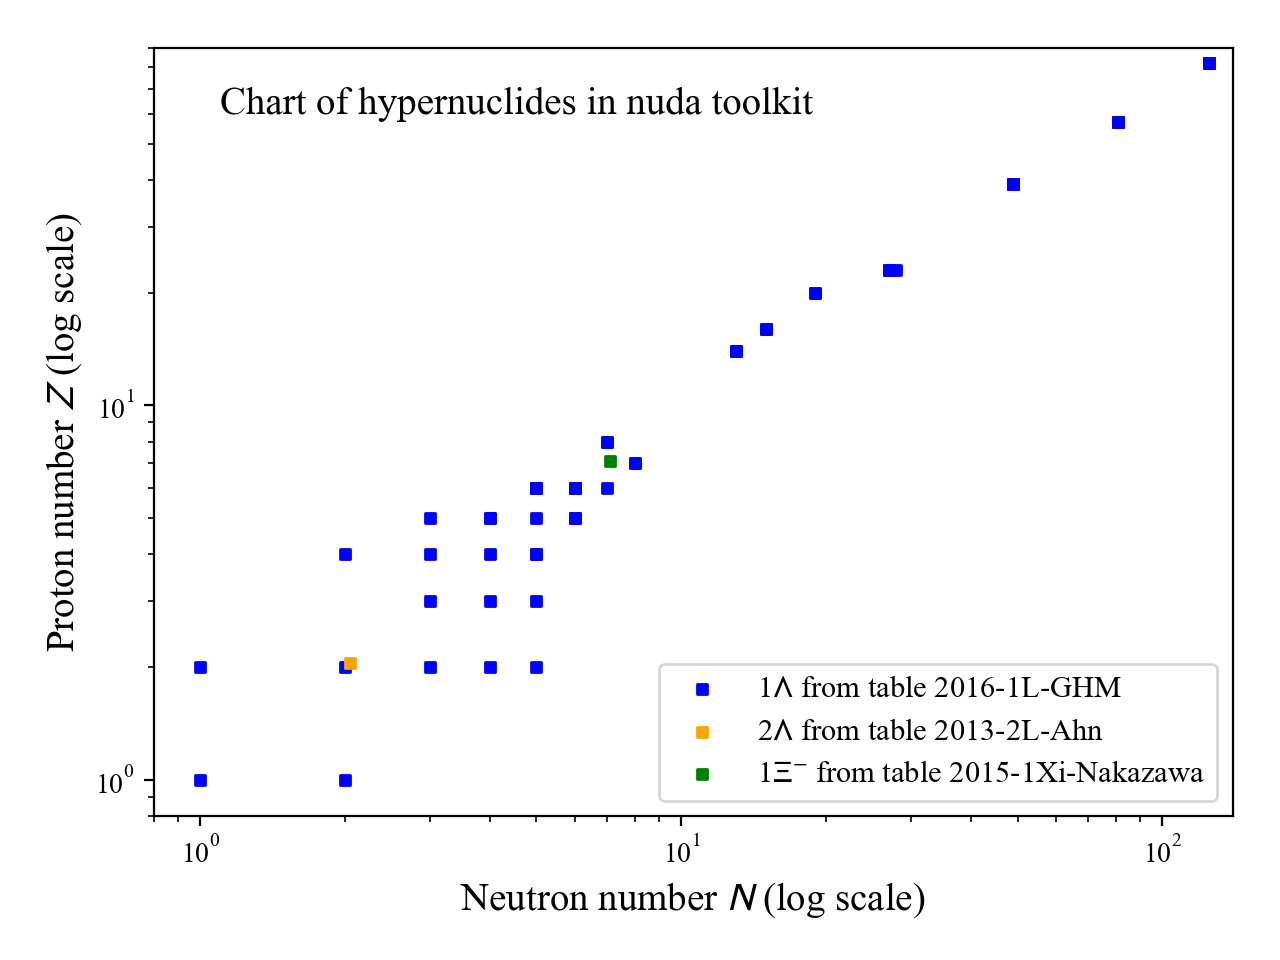
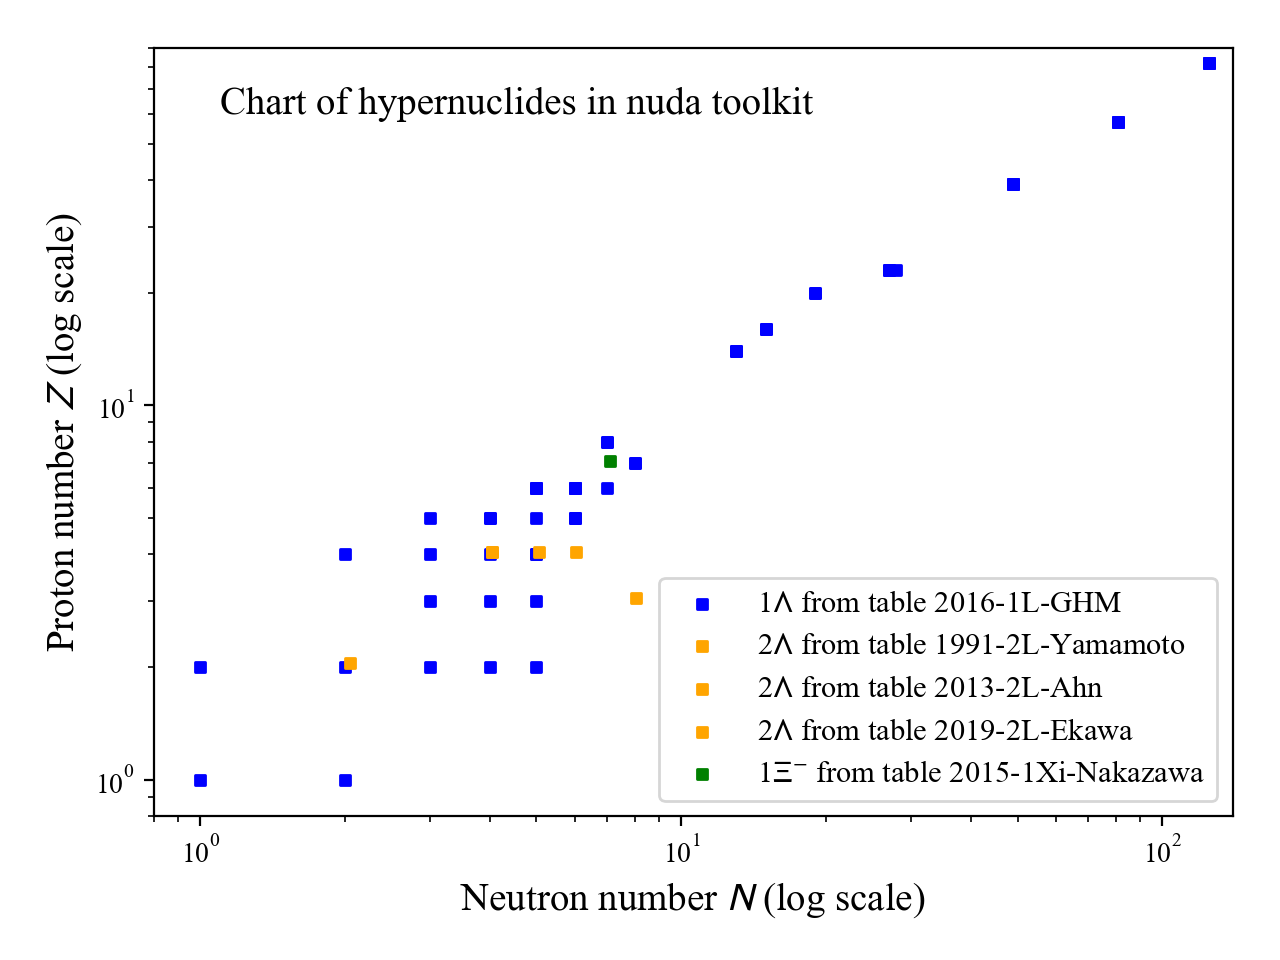
new tables for 2L hypernuclei

Changed region(s): [[0.5, 0.5938, 0.9375, 0.7812], [0.375, 0.5625, 0.4688, 0.5938], [0.75, 0.75, 0.7812, 0.7812]]

diff --git a/version-1.0/nucleardatapy/hnuc/setup_re2L_exp.py b/version-1.0/nucleardatapy/hnuc/setup_re2L_exp.py
@@ -16,7 +16,8 @@ def re2L_exp_tables():
     #
     if nuda.env.verb: print("\nEnter re2L_exp_tables()")
     #
-    tables = [ '2013-2L-Ahn' ]
+    #tables = [ '2013-2L-Ahn' ]
+    tables = [ '1991-2L-Yamamoto', '2013-2L-Ahn', '2019-2L-Ekawa' ]
     #
     #print('tables available in the toolkit:',tables)
     tables_lower = [ item.lower() for item in tables ]
@@ -78,13 +79,34 @@ class setupRE2LExp():
       color = []
       mark = []
       #
-      if table.lower() == '2013-2l-ahn':
+      if table.lower() == '1991-2l-yamamoto':
+         #
+         file_in = os.path.join(nuda.param.path_data,'hnuclei/1991-2L-Yamamoto.csv')
+         if nuda.env.verb: print('Reads file:',file_in)
+         #: Attribute providing the full reference to the paper to be citted.
+         self.ref = 'Y. Yamamoto, H. Takaki, K. Ikeda, Prog. Theo. Phys. 86, 867 (1991).'
+         self.keyref = 'YYamamoto:1991'
+         #: Attribute providing additional notes about the data.
+         self.note = "https://doi.org/10.1143/ptp/86.4.867"
+         #
+
+      elif table.lower() == '2013-2l-ahn':
          #
          file_in = os.path.join(nuda.param.path_data,'hnuclei/2013-2L-Ahn.csv')
          if nuda.env.verb: print('Reads file:',file_in)
          #: Attribute providing the full reference to the paper to be citted.
          self.ref = 'J. K. Ahn, H. Akikawa, S. Aoki, K. Arai, Phys. Rev. C 88, 014003 (2013)'
          self.keyref = 'JKAhn:2013'
+         #: Attribute providing additional notes about the data.
+         self.note = "write here notes about this table."
+         #
+      if table.lower() == '2019-2l-ekawa':
+         #
+         file_in = os.path.join(nuda.param.path_data,'hnuclei/2019-2L-Ekawa.csv')
+         if nuda.env.verb: print('Reads file:',file_in)
+         #: Attribute providing the full reference to the paper to be citted.
+         self.ref = 'H. Ekawa et al., PTEP 2019, 021D02.'
+         self.keyref = 'HEkawa:2019'
          #: Attribute providing additional notes about the data.
          self.note = "write here notes about this table."
          #
@@ -102,11 +124,12 @@ class setupRE2LExp():
                nuclre_err.append(linesplit[4].strip())
                nucldre.append(linesplit[5].strip())
                nucldre_err.append(linesplit[6].strip())
-               probe.append(linesplit[6].strip().strip('\n'))
-               if probe[-1] == 'emul':
-                  label.append("Ahn-2013 Emul")
-                  color.append('blue')
-                  mark.append('s')
+               label.append(linesplit[7].strip('\n'))
+               probe.append(linesplit[7].strip().strip('\n'))
+               color.append('blue')
+               mark.append('s')
+               print('label:',label[-1])
+               print('probe:',probe[-1])
             else:
                break
       #

diff --git a/version-1.0/nucleardatapy/fig/hnuc_setupChart_fig.py b/version-1.0/nucleardatapy/fig/hnuc_setupChart_fig.py
@@ -3,7 +3,7 @@ import matplotlib.pyplot as plt
 
 import nucleardatapy as nuda
 
-def hnuc_setupChart_fig( pname, table1L, table2L, table1Xi ):
+def hnuc_setupChart_fig( pname, tables1L, tables2L, tables1Xi ):
     """
     Plot hyper-nuclear chart (N versus Z).
 
@@ -14,18 +14,14 @@ def hnuc_setupChart_fig( pname, table1L, table2L, table1Xi ):
     :param pname: name of the figure (*.png)
     :type pname: str.
     :param table1L: table.
-    :type table1L: str.
+    :type table1L: array of str.
     :param table2L: table.
-    :type table2L: str.
+    :type table2L: array of str.
     :param table1Xi: table.
-    :type table1Xi: str.
+    :type table1Xi: array of str.
     """
     #
     print(f'Plot name: {pname}')
-    #
-    hnuc1L = nuda.hnuc.setupRE1LExp( table = table1L )
-    hnuc2L = nuda.hnuc.setupRE2LExp( table = table2L )
-    hnuc1Xi = nuda.hnuc.setupRE1XiExp( table = table1Xi )
     #
     # plot
     #
@@ -40,9 +36,15 @@ def hnuc_setupChart_fig( pname, table1L, table2L, table1Xi ):
     axs.set_xlim([0.8, 140])
     axs.set_ylim([0.8, 90.0])
     #
-    axs.scatter( hnuc1L.N,      hnuc1L.Z,      marker='s', s=12, color=nuda.param.col[0], label=r'1$\Lambda$ from table '+table1L )
-    axs.scatter( hnuc2L.N+0.05, hnuc2L.Z+0.05, marker='s', s=12, color=nuda.param.col[1], label=r'2$\Lambda$ from table '+table2L )
-    axs.scatter( hnuc1Xi.N+0.1, hnuc1Xi.Z+0.1, marker='s', s=12, color=nuda.param.col[2], label=r'1$\Xi^{-}$ from table '+table1Xi )
+    for table1L in tables1L:
+        hnuc1L = nuda.hnuc.setupRE1LExp( table = table1L )
+        axs.scatter( hnuc1L.N,      hnuc1L.Z,      marker='s', s=12, color=nuda.param.col[0], label=r'1$\Lambda$ from table '+table1L )
+    for table2L in tables2L:
+        hnuc2L = nuda.hnuc.setupRE2LExp( table = table2L )
+        axs.scatter( hnuc2L.N+0.05, hnuc2L.Z+0.05, marker='s', s=12, color=nuda.param.col[1], label=r'2$\Lambda$ from table '+table2L )
+    for table1Xi in tables1Xi:
+        hnuc1Xi = nuda.hnuc.setupRE1XiExp( table = table1Xi )
+        axs.scatter( hnuc1Xi.N+0.1, hnuc1Xi.Z+0.1, marker='s', s=12, color=nuda.param.col[2], label=r'1$\Xi^{-}$ from table '+table1Xi )
     #
     #axs.text(0.15,12,r'$K_{sym}$='+str(int(Ksym))+' MeV',fontsize='12')
     axs.legend(loc='lower right',fontsize='11',ncol=1)

diff --git a/version-1.0/nucleardatapy_samples/hnuc_setupChart_plot.py b/version-1.0/nucleardatapy_samples/hnuc_setupChart_plot.py
@@ -17,9 +17,10 @@ def main():
     nuda.create_folder_fig(folder = folder)
     #
     #tables, tables_lower = nuda.hnuc.be1L_exp_tables()
-    table1L = '2016-1L-GHM'
-    table2L = '2013-2L-Ahn'
-    table1Xi = '2015-1Xi-Nakazawa'
+    table1L = [ '2016-1L-GHM' ]
+    #table2L = '2013-2L-Ahn'
+    table2L = [ '1991-2L-Yamamoto', '2013-2L-Ahn', '2019-2L-Ekawa' ]
+    table1Xi = [ '2015-1Xi-Nakazawa' ]
     #
     pname = folder+'/plot_hnuc_setupChart.png'
     #
